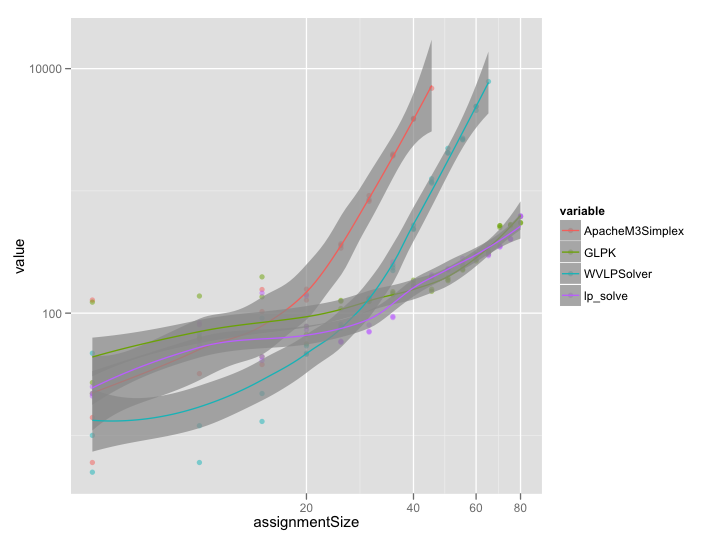
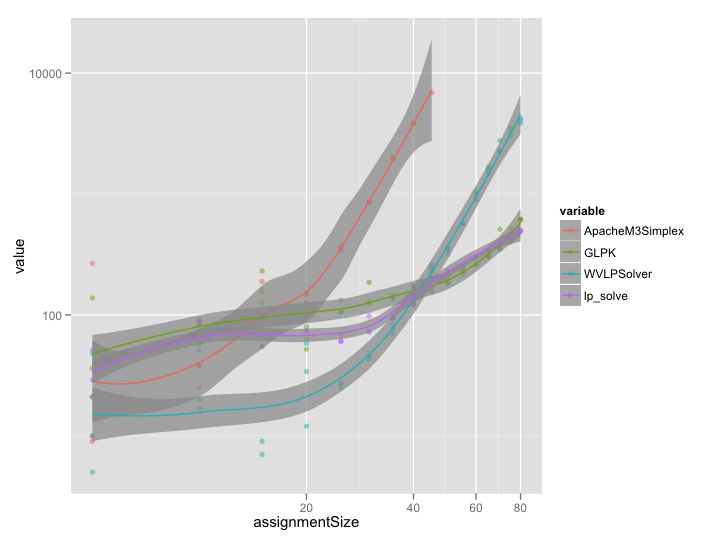
play with controlling inspection order

diff --git a/src/com/winvector/lp/impl/RevisedSimplexSolver.java b/src/com/winvector/lp/impl/RevisedSimplexSolver.java
@@ -1,6 +1,7 @@
 package com.winvector.lp.impl;
 
 import java.util.BitSet;
+import java.util.LinkedList;
 import java.util.Random;
 
 import com.winvector.linagl.Matrix;
@@ -23,30 +24,14 @@ public final class RevisedSimplexSolver extends LPSolverImpl {
 	public boolean checkAll = false;
 	public double checkTol = 1.0e-8;
 	public double enteringTol = 1.0e-5;
-	public double earlyEnterTol = 1.0e-3;
+	public double earlyEnterTol = 1.0e-2;
 	public double leavingTol = 1.0e-5;
 	public boolean perturbB = false;               // perturb b by simulated infinitesimals to avoid degenerate cases
 	public boolean perturbC = true;               // perturb c by simulated infinitesimals to avoid degenerate cases
-	public boolean earlyR = false;                 // allow partial inspection for entering columns
+	public boolean earlyR = true;                 // allow partial inspection for entering columns
 	public Random rand = new Random(3252351L);
 
 	
-	private static int[] perm(final Random rand, final int n) {
-		final int[] perm = new int[n];
-		for(int i=0;i<n;++i) {
-			perm[i] = i;
-		}
-		for(int i=0;i<n-1;++i) {
-			final int j = i + rand.nextInt(n-i);
-			if(j>i) {
-				final int vi = perm[i];
-				final int vj = perm[j];
-				perm[i] = vj;
-				perm[j] = vi;
-			}
-		}
-		return perm;
-	}
 
 	
 	private <Z extends Matrix<Z>> int[] runSimplex(final RTableau<Z> tab, final double tol, final int maxRounds) throws LPException {
@@ -75,7 +60,9 @@ public final class RevisedSimplexSolver extends LPSolverImpl {
 			bPrime = null;
 		}
 		final int nvars = tab.prob.A.cols();
+		final int ncond = tab.prob.A.rows();
 		final BitSet curBasisIndicator = new BitSet(nvars);
+		final InspectionOrder inspectionOrder = new InspectionOrder(nvars,rand);
 		while (tab.normalSteps<=maxRounds) {
 			int enteringV = -1;
 			{
@@ -91,10 +78,8 @@ public final class RevisedSimplexSolver extends LPSolverImpl {
 				// determines joining variable
 				double prevRi = Double.NaN;
 				double prevRPi = Double.NaN;
-				final int[] perm = earlyR?perm(rand,nvars):null;
-				rsearch:
 				for(int ii=0;ii<nvars;++ii) {
-					final int v = (null!=perm)?perm[ii]:ii;
+					final int v = inspectionOrder.take();
 					if(!curBasisIndicator.get(v)) {
 						final double ri = tab.computeRI(lambda, tab.prob.c, v);
 						final double rpi = perturbC?tab.computeRI(lambdaPrime,cPrime,v):ri;
@@ -105,11 +90,11 @@ public final class RevisedSimplexSolver extends LPSolverImpl {
 								enteringV = v;
 								prevRi = ri;
 								prevRPi = rpi;
-								if(earlyR && (ri<-earlyEnterTol)) {
-									break rsearch;
-								}
 							}
 						}
+					}
+					if(earlyR && (prevRi<-earlyEnterTol) && (ii>2*ncond+5)) {
+						break;
 					}
 				}
 				if (debug > 0) {
@@ -145,6 +130,7 @@ public final class RevisedSimplexSolver extends LPSolverImpl {
 						"problem unbounded");
 			}
 			// perform the swap
+			inspectionOrder.moveToEnd(tab.basis[leavingI]);
 			tab.basisPivot(leavingI,enteringV,binvu);
 			//System.out.println("leave: " + basis[leavingI]);
 		}

diff --git a/src/com/winvector/lp/impl/InspectionOrder.java b/src/com/winvector/lp/impl/InspectionOrder.java
@@ -1,0 +1,57 @@
+package com.winvector.lp.impl;
+
+import java.util.Random;
+
+public final class InspectionOrder {
+	private final int[] perm;
+	private int ptr = 0;
+	
+	public static int[] perm(final Random rand, final int n) {
+		final int[] perm = new int[n];
+		for(int i=0;i<n;++i) {
+			perm[i] = i;
+		}
+		for(int i=0;i<n-1;++i) {
+			final int j = i + rand.nextInt(n-i);
+			if(j>i) {
+				final int vi = perm[i];
+				final int vj = perm[j];
+				perm[i] = vj;
+				perm[j] = vi;
+			}
+		}
+		return perm;
+	}
+
+	
+	public InspectionOrder(final int n, final Random rand) {
+		perm = perm(rand,n);
+	}
+	
+	public int take() {
+		final int r = perm[ptr];
+		ptr = ptr + 1;
+		if(ptr>=perm.length) {
+			ptr = 0;
+		}
+		return r;
+	}
+
+	// slow operation
+	public void moveToEnd(final int v) {
+		// find where v is
+		int a = 0;
+		while(perm[a]!=v) {
+			++a;
+		}
+		final int end = (ptr<=0)?perm.length-1:ptr-1;
+		while(a!=end) { 
+			final int next = (a>=perm.length-1)?0:a+1;
+			final int vNext = perm[next];
+			final int vA = perm[a];
+			perm[a] = vNext;
+			perm[next] = vA;
+			a = next;
+		}
+	}
+}

diff --git a/test/com/winvector/lp/impl/TestInspectionOrder.java b/test/com/winvector/lp/impl/TestInspectionOrder.java
@@ -1,0 +1,23 @@
+package com.winvector.lp.impl;
+
+
+import static org.junit.Assert.assertTrue;
+
+import java.util.Random;
+
+import org.junit.Test;
+
+public class TestInspectionOrder {
+	@Test
+	public void testShift() {
+		final Random rand = new Random(3626L);
+		final InspectionOrder io = new InspectionOrder(5,rand);
+		io.take();
+		io.take();
+		io.moveToEnd(3);
+		for(int i=0;i<4;++i) {
+			assertTrue(io.take()!=3);
+		}
+		assertTrue(io.take()==3);
+	}
+}
